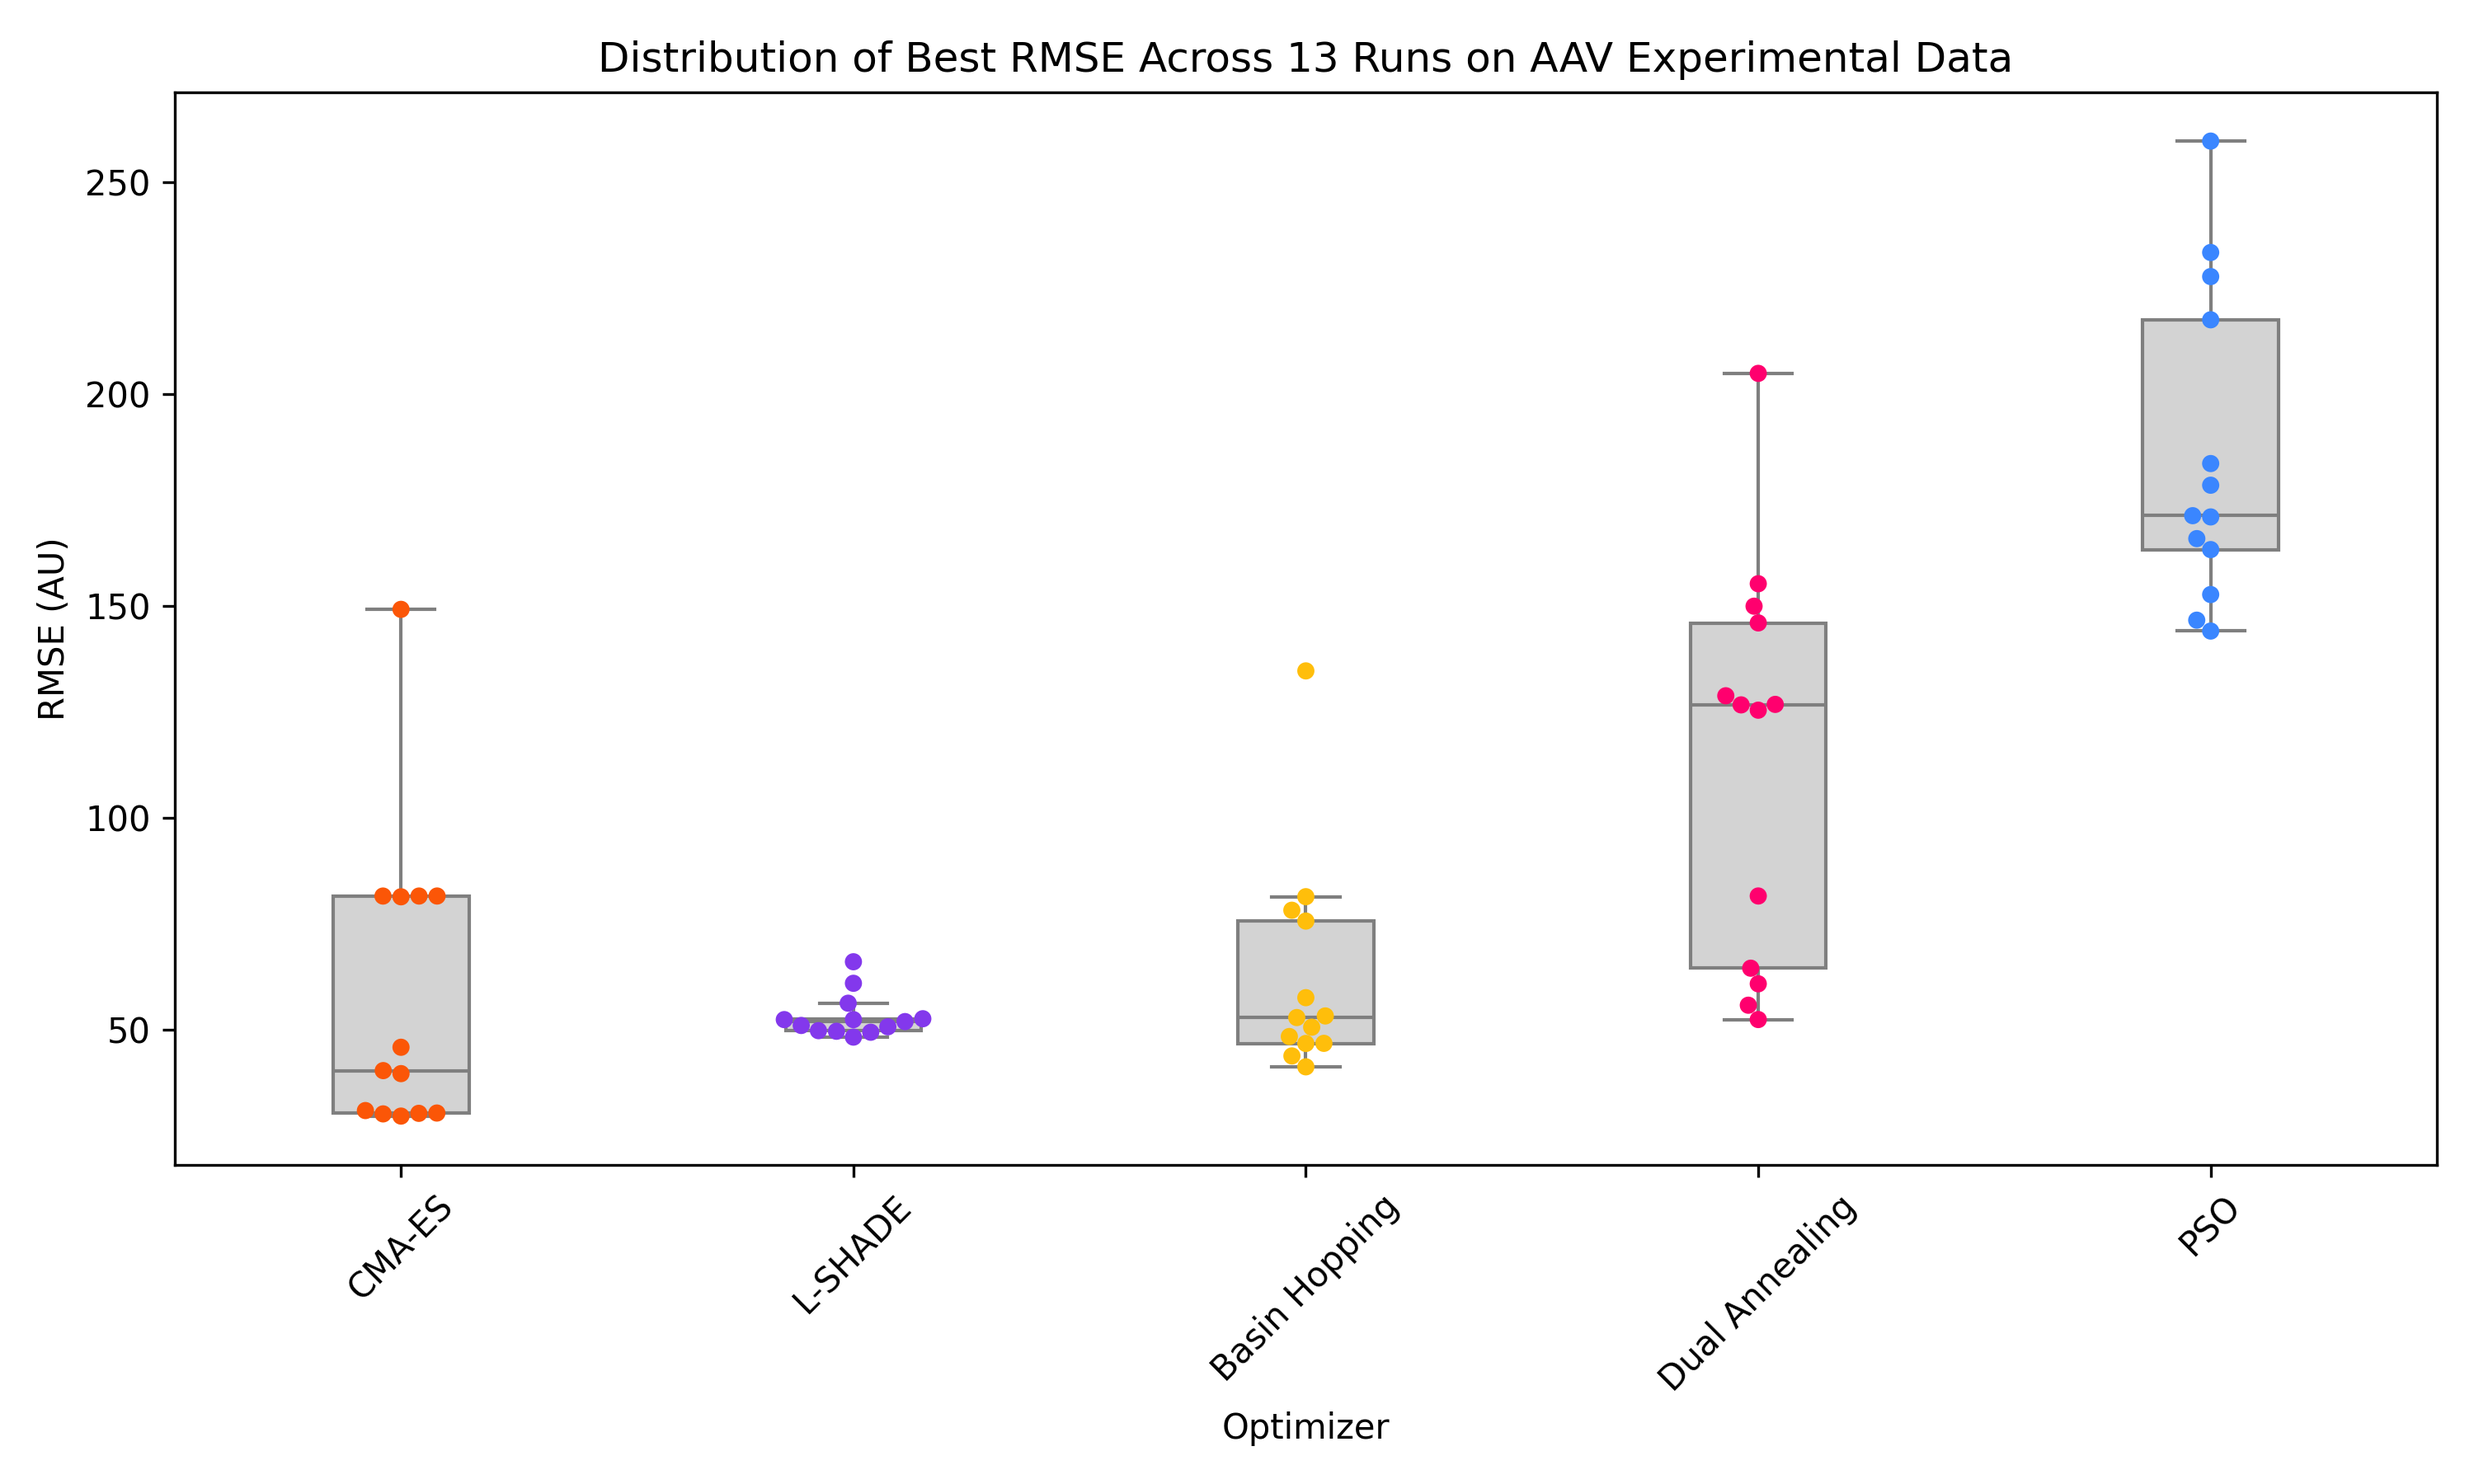
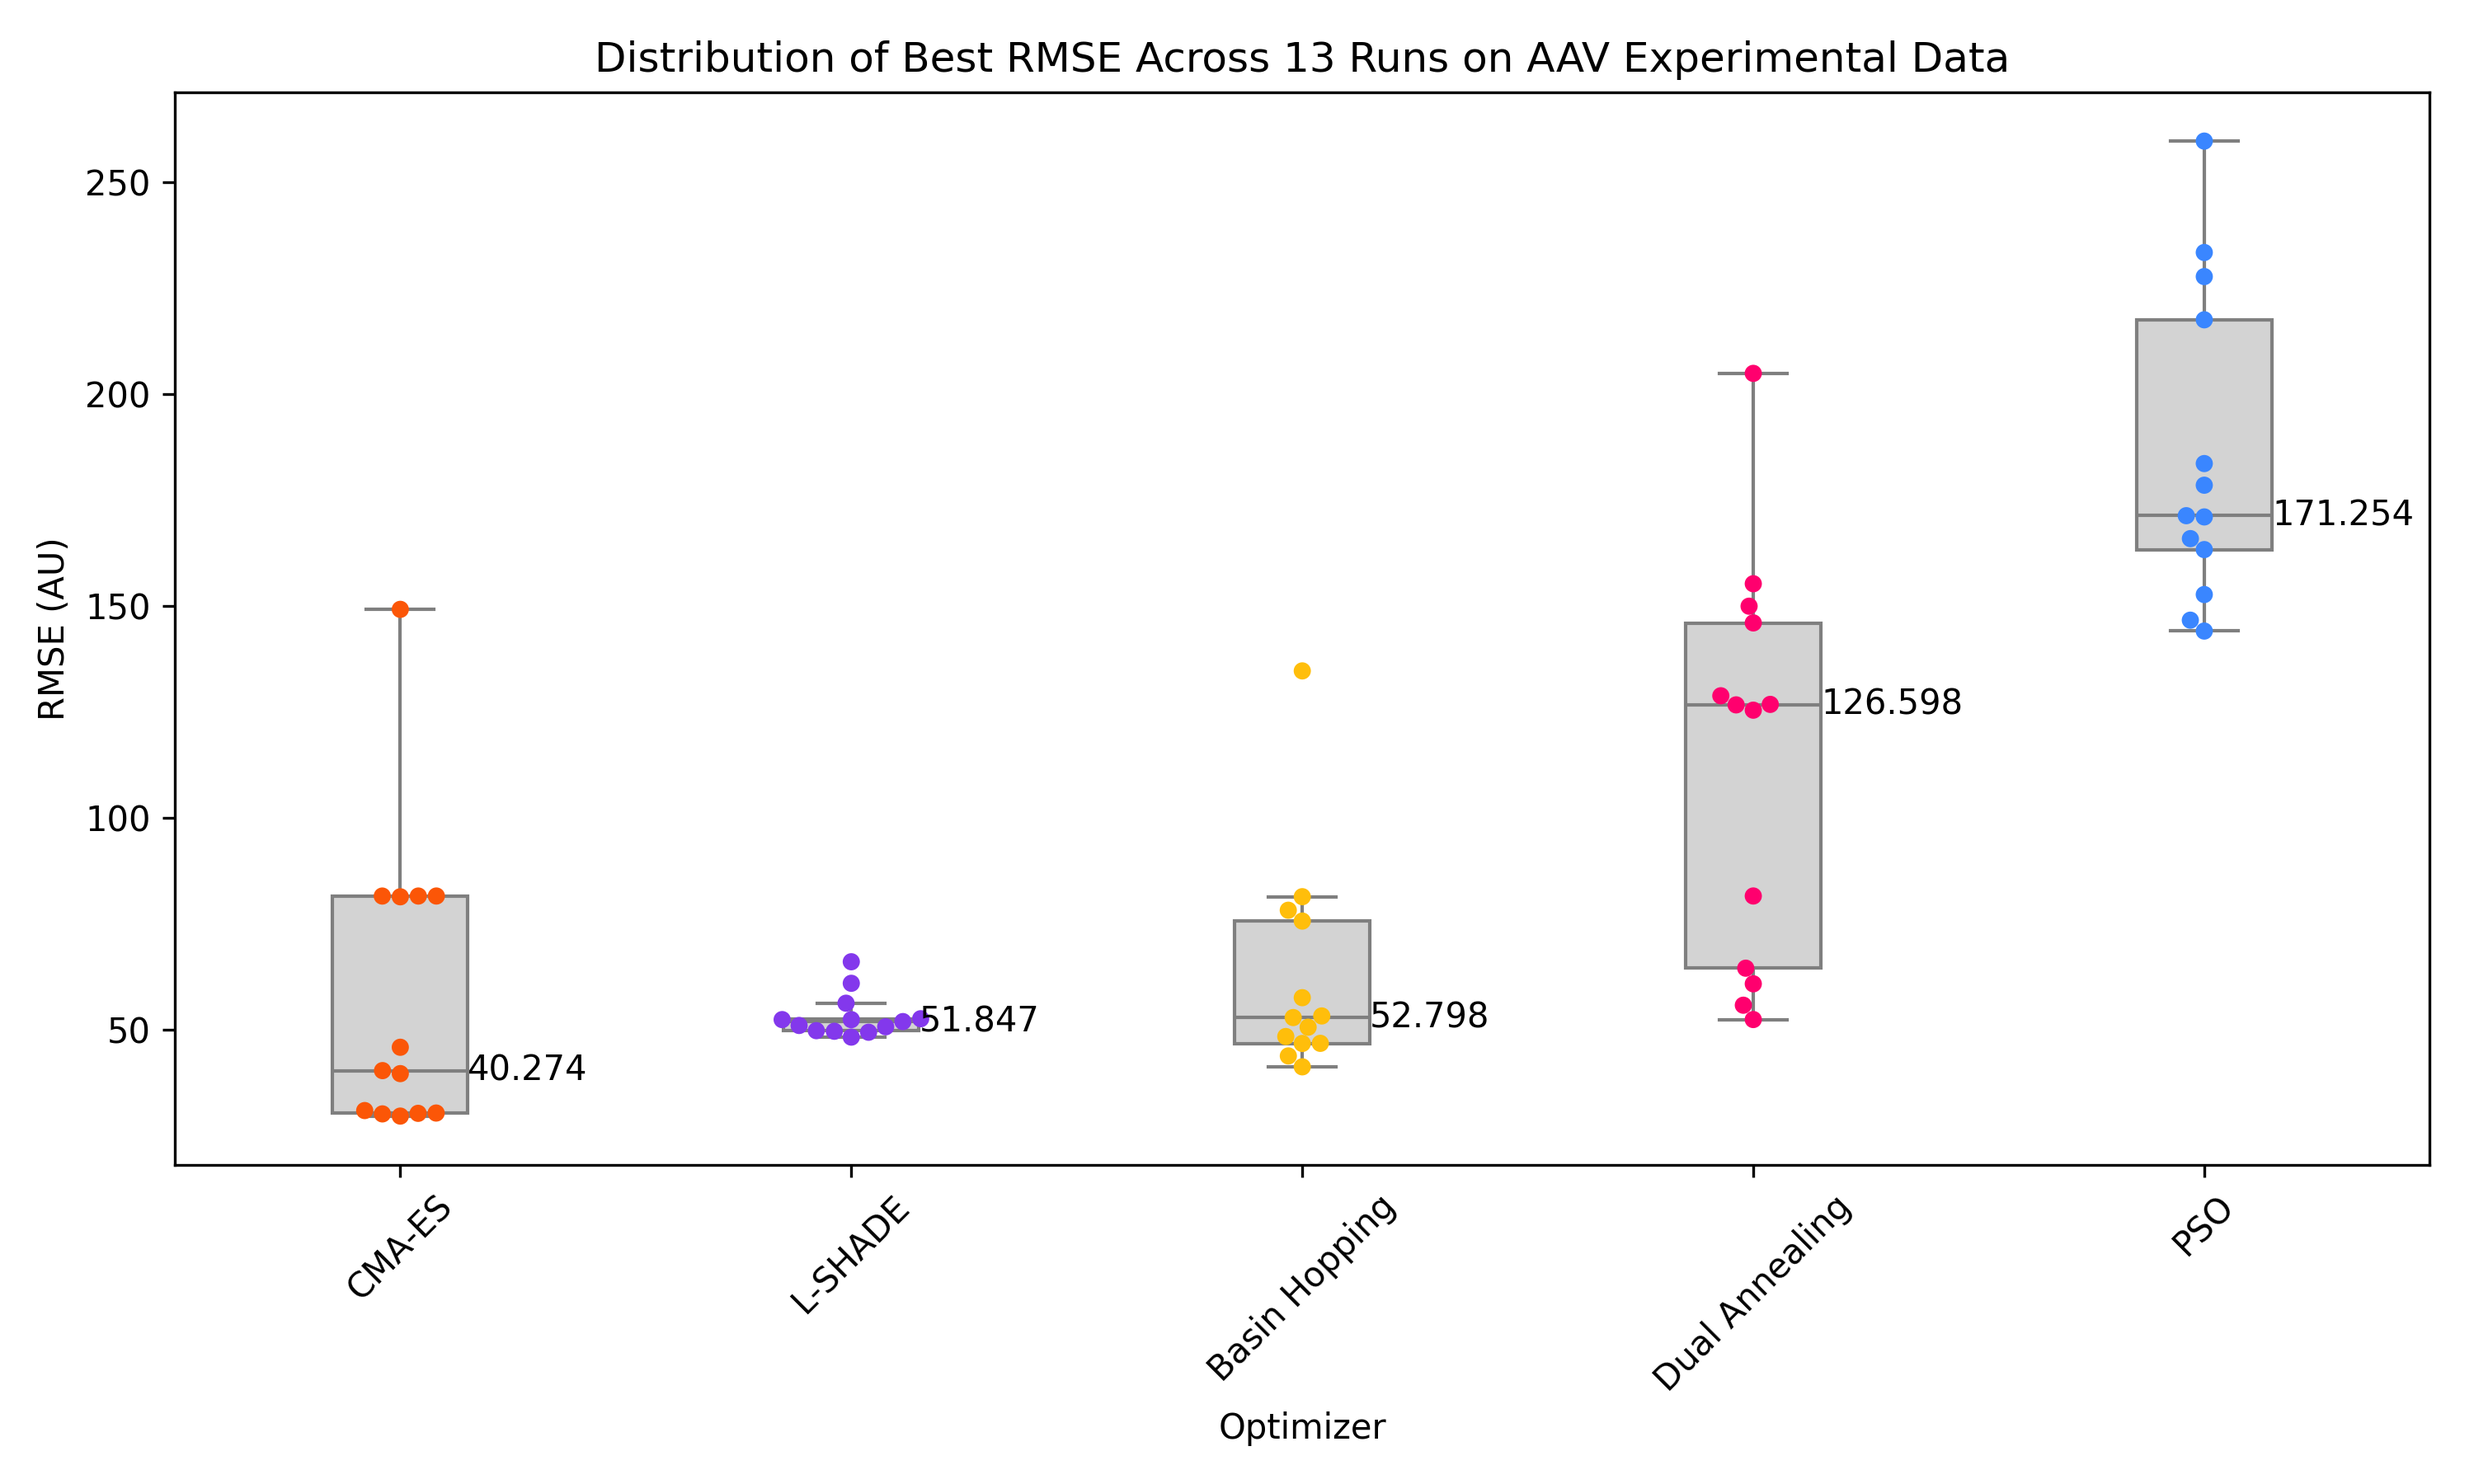
plotting results

diff --git a/python/plot_parameter_recovery.py b/python/plot_parameter_recovery.py
@@ -1,10 +1,8 @@
-"""Visualize optimizer parameter recovery accuracy using MASE."""
-
 from __future__ import annotations
 
 import ast
 import os
-from typing import Sequence
+from typing import Sequence, Tuple
 
 import matplotlib.pyplot as plt
 import numpy as np
@@ -61,6 +59,20 @@ UPPER_BOUNDS: Sequence[float] = [
     1000000,
 ]
 
+# Define display names
+DISPLAY_NAMES = {
+    "basin_hopping": "Basin Hopping",
+    "cmaes": "CMA-ES",
+    "dual_annealing": "Dual Annealing",
+    "lshade": "L-SHADE",
+    "pso": "PSO",
+}
+
+# Define a consistent color palette
+ALGORITHMS = list(DISPLAY_NAMES.keys())
+CUSTOM_COLORS = ["#FFBE0B", "#FB5607", "#FF006E", "#8338EC", "#3A86FF"]
+COLOR_MAP = dict(zip(ALGORITHMS, CUSTOM_COLORS))
+
 
 def _load_ground_truth(category: str) -> np.ndarray:
     """Return ground truth parameter vector for a dataset category."""
@@ -84,12 +96,11 @@ def _mase(found: Sequence[float], truth: Sequence[float]) -> float:
     return float(np.mean(np.abs(found_scaled - truth_scaled)))
 
 
-def plot_parameter_recovery() -> None:
-    """Create a six-panel swarm plot figure of parameter recovery."""
+def _get_mase_df() -> Tuple[pd.DataFrame, list]:
+    """Load and compute MASE for the dataframe."""
     df = pd.read_csv("synthetic_results.csv")
     df["category"] = df["dataset"].str.rsplit("_", n=1).str[0]
 
-    # Preload ground truth parameters for all categories
     categories = sorted(df["category"].unique())
     ground_truth = {cat: _load_ground_truth(cat) for cat in categories}
 
@@ -97,64 +108,91 @@ def plot_parameter_recovery() -> None:
         lambda row: _mase(_parse_params(row["params"]), ground_truth[row["category"]]),
         axis=1,
     )
+    return df, categories
 
-    display_names = {
-        "basin_hopping": "Basin Hopping",
-        "cmaes": "CMA-ES",
-        "dual_annealing": "Dual Annealing",
-        "lshade": "L-SHADE",
-        "pso": "PSO",
-    }
-    algorithms = list(display_names.keys())
-    colors = ["#FFBE0B", "#FB5607", "#FF006E", "#8338EC", "#3A86FF"]
-    color_map = dict(zip(algorithms, colors))
 
-    medians = df.groupby("optimizer")["mase"].median().sort_values()
-    sorted_opts = medians.index.tolist()
+def plot_parameter_recovery() -> None:
+    """Create a six-panel swarm plot figure of parameter recovery."""
+    df, categories = _get_mase_df()
+
+    # Compute sorted optimizers by overall median MASE (ascending)
+    overall_medians = df.groupby("optimizer")["mase"].median().sort_values()
+    sorted_optimizers = overall_medians.index.tolist()
 
     fig, axes = plt.subplots(2, 3, figsize=(20, 12), sharey=True)
     ax_list = axes.flatten()
 
-    sns.swarmplot(
-        ax=ax_list[0],
-        data=df,
-        x="optimizer",
-        y="mase",
-        order=sorted_opts,
-        palette=color_map,
-    )
+    # Overall plot
+    sns.boxplot(ax=ax_list[0], data=df, x="optimizer", y="mase", order=sorted_optimizers, color="lightgray", width=0.3, fliersize=0)
+    sns.swarmplot(ax=ax_list[0], data=df, x="optimizer", y="mase", hue="optimizer",
+                  palette=COLOR_MAP, order=sorted_optimizers, size=5)
     ax_list[0].set_title("Overall Parameter Recovery (MASE)")
     ax_list[0].set_xlabel("Optimizer")
     ax_list[0].set_ylabel("MASE")
-    ax_list[0].set_xticklabels([display_names.get(opt, opt) for opt in sorted_opts])
+    ax_list[0].set_xticklabels([DISPLAY_NAMES.get(opt, opt) for opt in sorted_optimizers])
+    ax_list[0].legend().remove()  # Remove legend since colors match x-axis
+    for i, opt in enumerate(sorted_optimizers):
+        median_val = overall_medians[opt]
+        ax_list[0].text(i + 0.15, median_val, f'{median_val:.3f}', ha='left', va='center', fontsize=10, color='black')
 
-    for ax, category in zip(ax_list[1:], categories):
+    # Per-category plots
+    for ax_idx, category in enumerate(categories, start=1):
+        ax = ax_list[ax_idx]
         subset = df[df["category"] == category]
-        sns.swarmplot(
-            ax=ax,
-            data=subset,
-            x="optimizer",
-            y="mase",
-            order=sorted_opts,
-            palette=color_map,
-        )
-        title = (
-            "Parameter Recovery for "
-            f"{display_names.get(category, category.title())} Ground Truth"
-        )
-        ax.set_title(title)
+        subset_medians = subset.groupby("optimizer")["mase"].median()
+        sns.boxplot(ax=ax, data=subset, x="optimizer", y="mase", order=sorted_optimizers, color="lightgray", width=0.3, fliersize=0)
+        sns.swarmplot(ax=ax, data=subset, x="optimizer", y="mase", hue="optimizer",
+                      palette=COLOR_MAP, order=sorted_optimizers, size=5)
+        ax.set_title(DISPLAY_NAMES.get(category, category.replace("_", " ").title()))
         ax.set_xlabel("Optimizer")
         ax.set_ylabel("MASE")
-        ax.set_xticklabels([display_names.get(opt, opt) for opt in sorted_opts])
+        ax.set_xticklabels([DISPLAY_NAMES.get(opt, opt) for opt in sorted_optimizers])
+        ax.legend().remove()  # Remove legend
+        for i, opt in enumerate(sorted_optimizers):
+            median_val = subset_medians.get(opt, np.nan)
+            if not np.isnan(median_val):
+                ax.text(i + 0.15, median_val, f'{median_val:.3f}', ha='left', va='center', fontsize=10, color='black')
 
     for ax in ax_list:
         ax.tick_params(axis="x", rotation=45)
 
     plt.tight_layout()
-    os.makedirs("plots", exist_ok=True)
-    plt.savefig("plots/parameter_recovery_mase.png", dpi=300)
+    plt.savefig("plots/param_recovery.png", dpi=300)
+    plt.show()
+
+
+def plot_parameter_recovery_excluding_own() -> None:
+    """Create a swarm plot of parameter recovery excluding own-dataset."""
+    df, _ = _get_mase_df()
+
+    # Exclude own-dataset performance
+    df_filtered = df[df["optimizer"] != df["category"]]
+
+    # Compute sorted optimizers by median MASE (ascending) on filtered data
+    medians = df_filtered.groupby("optimizer")["mase"].median().sort_values()
+    sorted_optimizers = medians.index.tolist()
+
+    fig, ax = plt.subplots(figsize=(10, 6))
+
+    sns.boxplot(ax=ax, data=df_filtered, x="optimizer", y="mase", order=sorted_optimizers, color="lightgray", width=0.3, fliersize=0)
+    sns.swarmplot(ax=ax, data=df_filtered, x="optimizer", y="mase", hue="optimizer",
+                  palette=COLOR_MAP, order=sorted_optimizers, size=5)
+    ax.set_title("Parameter Recovery Excluding Own-Dataset (MASE)")
+    ax.set_xlabel("Optimizer")
+    ax.set_ylabel("MASE")
+    ax.set_xticklabels([DISPLAY_NAMES.get(opt, opt) for opt in sorted_optimizers])
+    ax.legend().remove()  # Remove legend since colors match x-axis
+    ax.tick_params(axis="x", rotation=45)
+    for i, opt in enumerate(sorted_optimizers):
+        median_val = medians[opt]
+        ax.text(i + 0.15, median_val, f'{median_val:.3f}', ha='left', va='center', fontsize=10, color='black')
+
+    plt.tight_layout()
+    plt.savefig("plots/param_recovery_exclusion.png", dpi=300)
     plt.show()
 
 
 if __name__ == "__main__":
+    os.makedirs("plots", exist_ok=True)
     plot_parameter_recovery()
+    plot_parameter_recovery_excluding_own()

diff --git a/python/plot_synthetic_fit.py b/python/plot_synthetic_fit.py
@@ -1,6 +1,7 @@
 from __future__ import annotations
 
 import os
+import numpy as np
 
 import matplotlib.pyplot as plt
 import pandas as pd
@@ -38,8 +39,8 @@ def plot_synthetic_swarm() -> None:
     COLOR_MAP = dict(zip(ALGORITHMS, CUSTOM_COLORS))
 
     # Compute sorted optimizers by overall median RMSE (ascending)
-    medians = df.groupby("optimizer")["rmse"].median().sort_values()
-    sorted_optimizers = medians.index.tolist()
+    overall_medians = df.groupby("optimizer")["rmse"].median().sort_values()
+    sorted_optimizers = overall_medians.index.tolist()
 
     fig, axes = plt.subplots(2, 3, figsize=(20, 12), sharey=True)
     ax_list = axes.flatten()
@@ -53,10 +54,15 @@ def plot_synthetic_swarm() -> None:
     ax_list[0].set_ylabel("RMSE")
     ax_list[0].set_xticklabels([DISPLAY_NAMES.get(opt, opt) for opt in sorted_optimizers])
     ax_list[0].legend().remove()  # Remove legend since colors match x-axis
+    for i, opt in enumerate(sorted_optimizers):
+        median_val = overall_medians[opt]
+        ax_list[0].text(i + 0.15, median_val, f'{median_val:.3f}', ha='left', va='center', fontsize=10, color='black')
 
     # Per-category plots
-    for ax, category in zip(ax_list[1:], categories):
+    for ax_idx, category in enumerate(categories, start=1):
+        ax = ax_list[ax_idx]
         subset = df[df["category"] == category]
+        subset_medians = subset.groupby("optimizer")["rmse"].median()
         sns.boxplot(ax=ax, data=subset, x="optimizer", y="rmse", order=sorted_optimizers, color="lightgray", width=0.3, fliersize=0)
         sns.swarmplot(ax=ax, data=subset, x="optimizer", y="rmse", hue="optimizer",
                       palette=COLOR_MAP, order=sorted_optimizers, size=5)
@@ -65,6 +71,10 @@ def plot_synthetic_swarm() -> None:
         ax.set_ylabel("RMSE")
         ax.set_xticklabels([DISPLAY_NAMES.get(opt, opt) for opt in sorted_optimizers])
         ax.legend().remove()  # Remove legend
+        for i, opt in enumerate(sorted_optimizers):
+            median_val = subset_medians.get(opt, np.nan)
+            if not np.isnan(median_val):
+                ax.text(i + 0.15, median_val, f'{median_val:.3f}', ha='left', va='center', fontsize=10, color='black')
 
     for ax in ax_list:
         ax.tick_params(axis="x", rotation=45)

diff --git a/python/plot_experiment_results.py b/python/plot_experiment_results.py
@@ -106,6 +106,12 @@ def plot_box_swarm() -> None:
     plt.title("Distribution of Best RMSE Across 13 Runs on AAV Experimental Data")
     plt.xticks(rotation=45)
     plt.legend().remove()  # Remove legend since colors match x-axis
+
+    # Add median values next to each box
+    for i, algo in enumerate(sorted_algorithms):
+        median_val = medians[algo]
+        plt.text(i + 0.15, median_val, f'{median_val:.3f}', ha='left', va='center', fontsize=10, color='black')
+
     plt.tight_layout()
     plt.savefig(os.path.join("plots", "rmse_exp.png"), dpi=300)
     plt.close()
